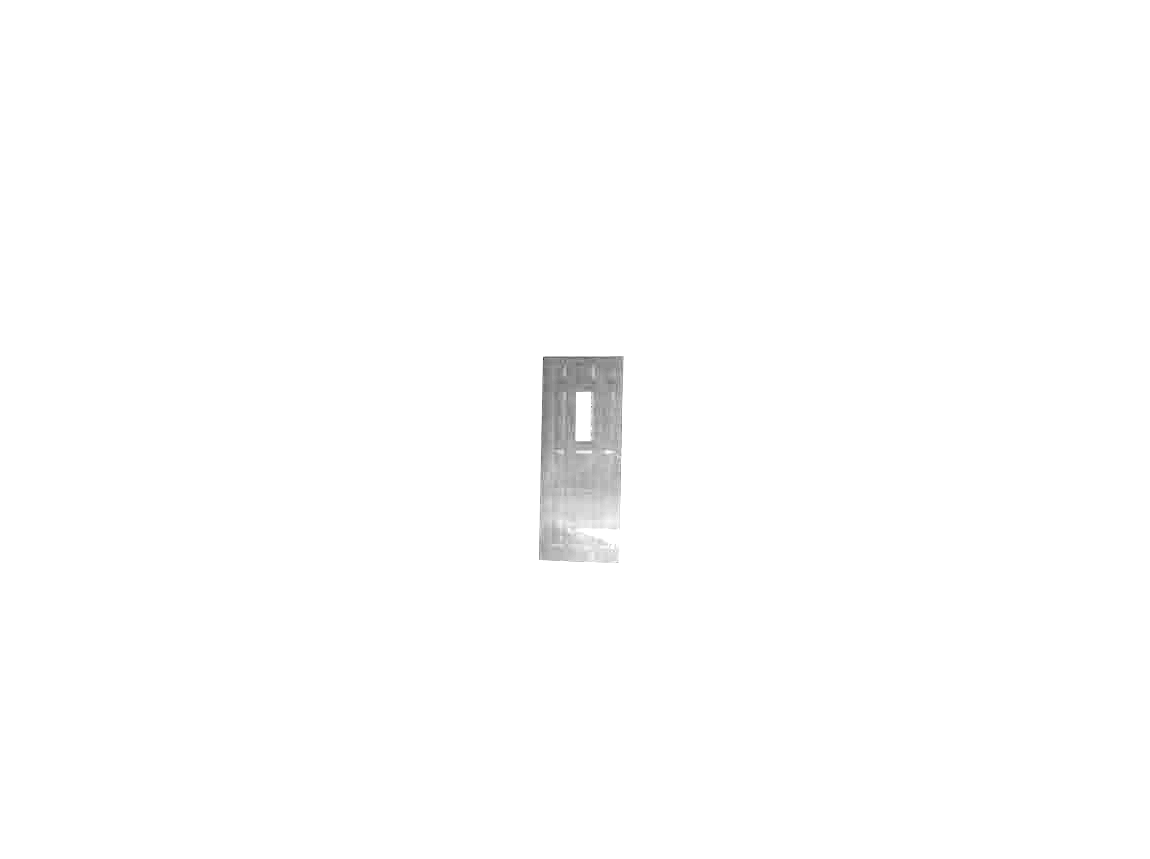
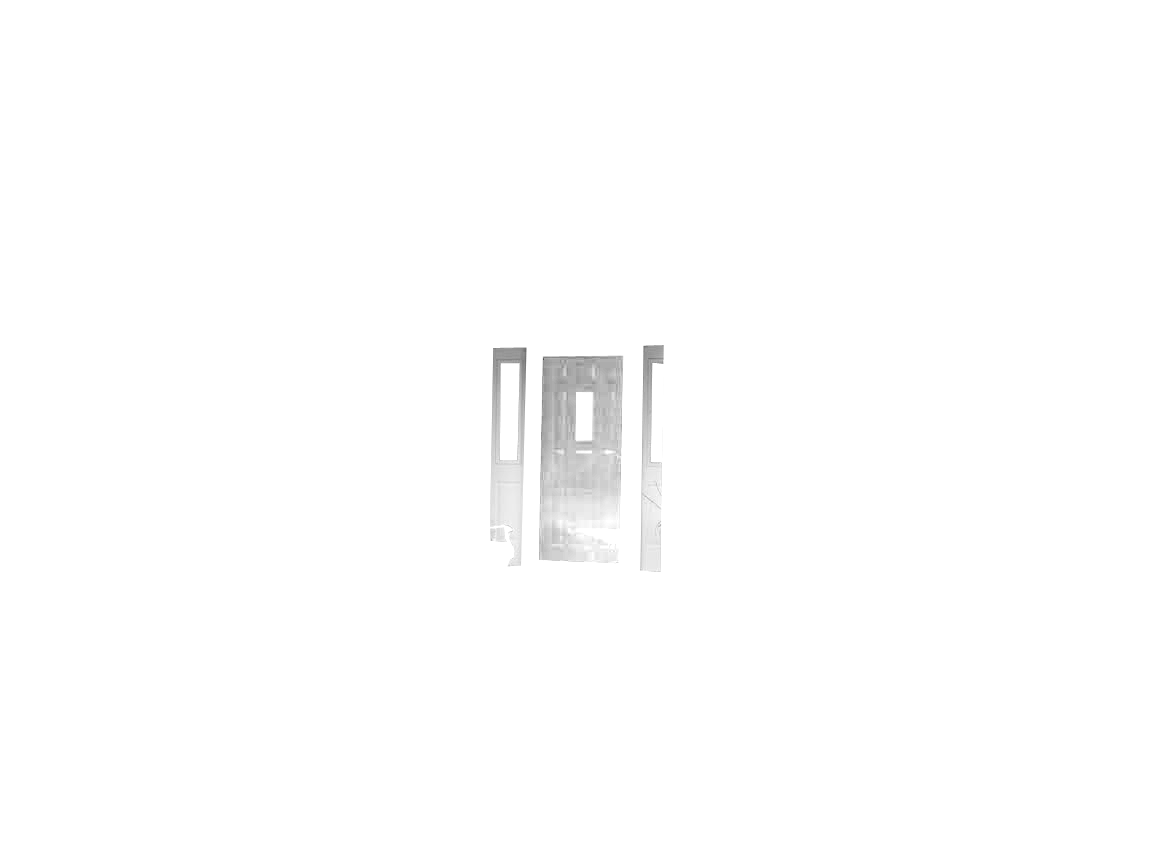
added sidepanels

Changed region(s): [[0.4261, 0.3935, 0.5783, 0.6659]]

diff --git a/index.html b/index.html
@@ -45,7 +45,7 @@
 </head>
 <body>
   <img src='images/momsdoor.jpg' id='house'/>
-  <img src='images/momsdoorjustdoor.png' id='door'/>
+  <img src='images/momsdoorjustdoor.png' id='door' style='display:none'/>
   <div class="colorpicker">
     <h3>Pick a color</h3>
     <div id="colorpicker1"></div>
@@ -62,10 +62,13 @@
     $(document).ready(function() {
       var defaultColor = "#20355d";
       $("#doorcolor").val(defaultColor).on("change", function(){
-        colorizer.getPixels();
         colorizer.changeColor($(this).val());
       });
-      $('#colorpicker1').farbtastic({ callback: '#doorcolor', width: 200 });
+      setTimeout(function(){
+        $("#door").show();
+        colorizer.getPixels();
+        $('#colorpicker1').farbtastic({ callback: '#doorcolor', width: 200 });
+      },700);
       //colorizer.changeColor(defaultColor);
     })
   </script>
